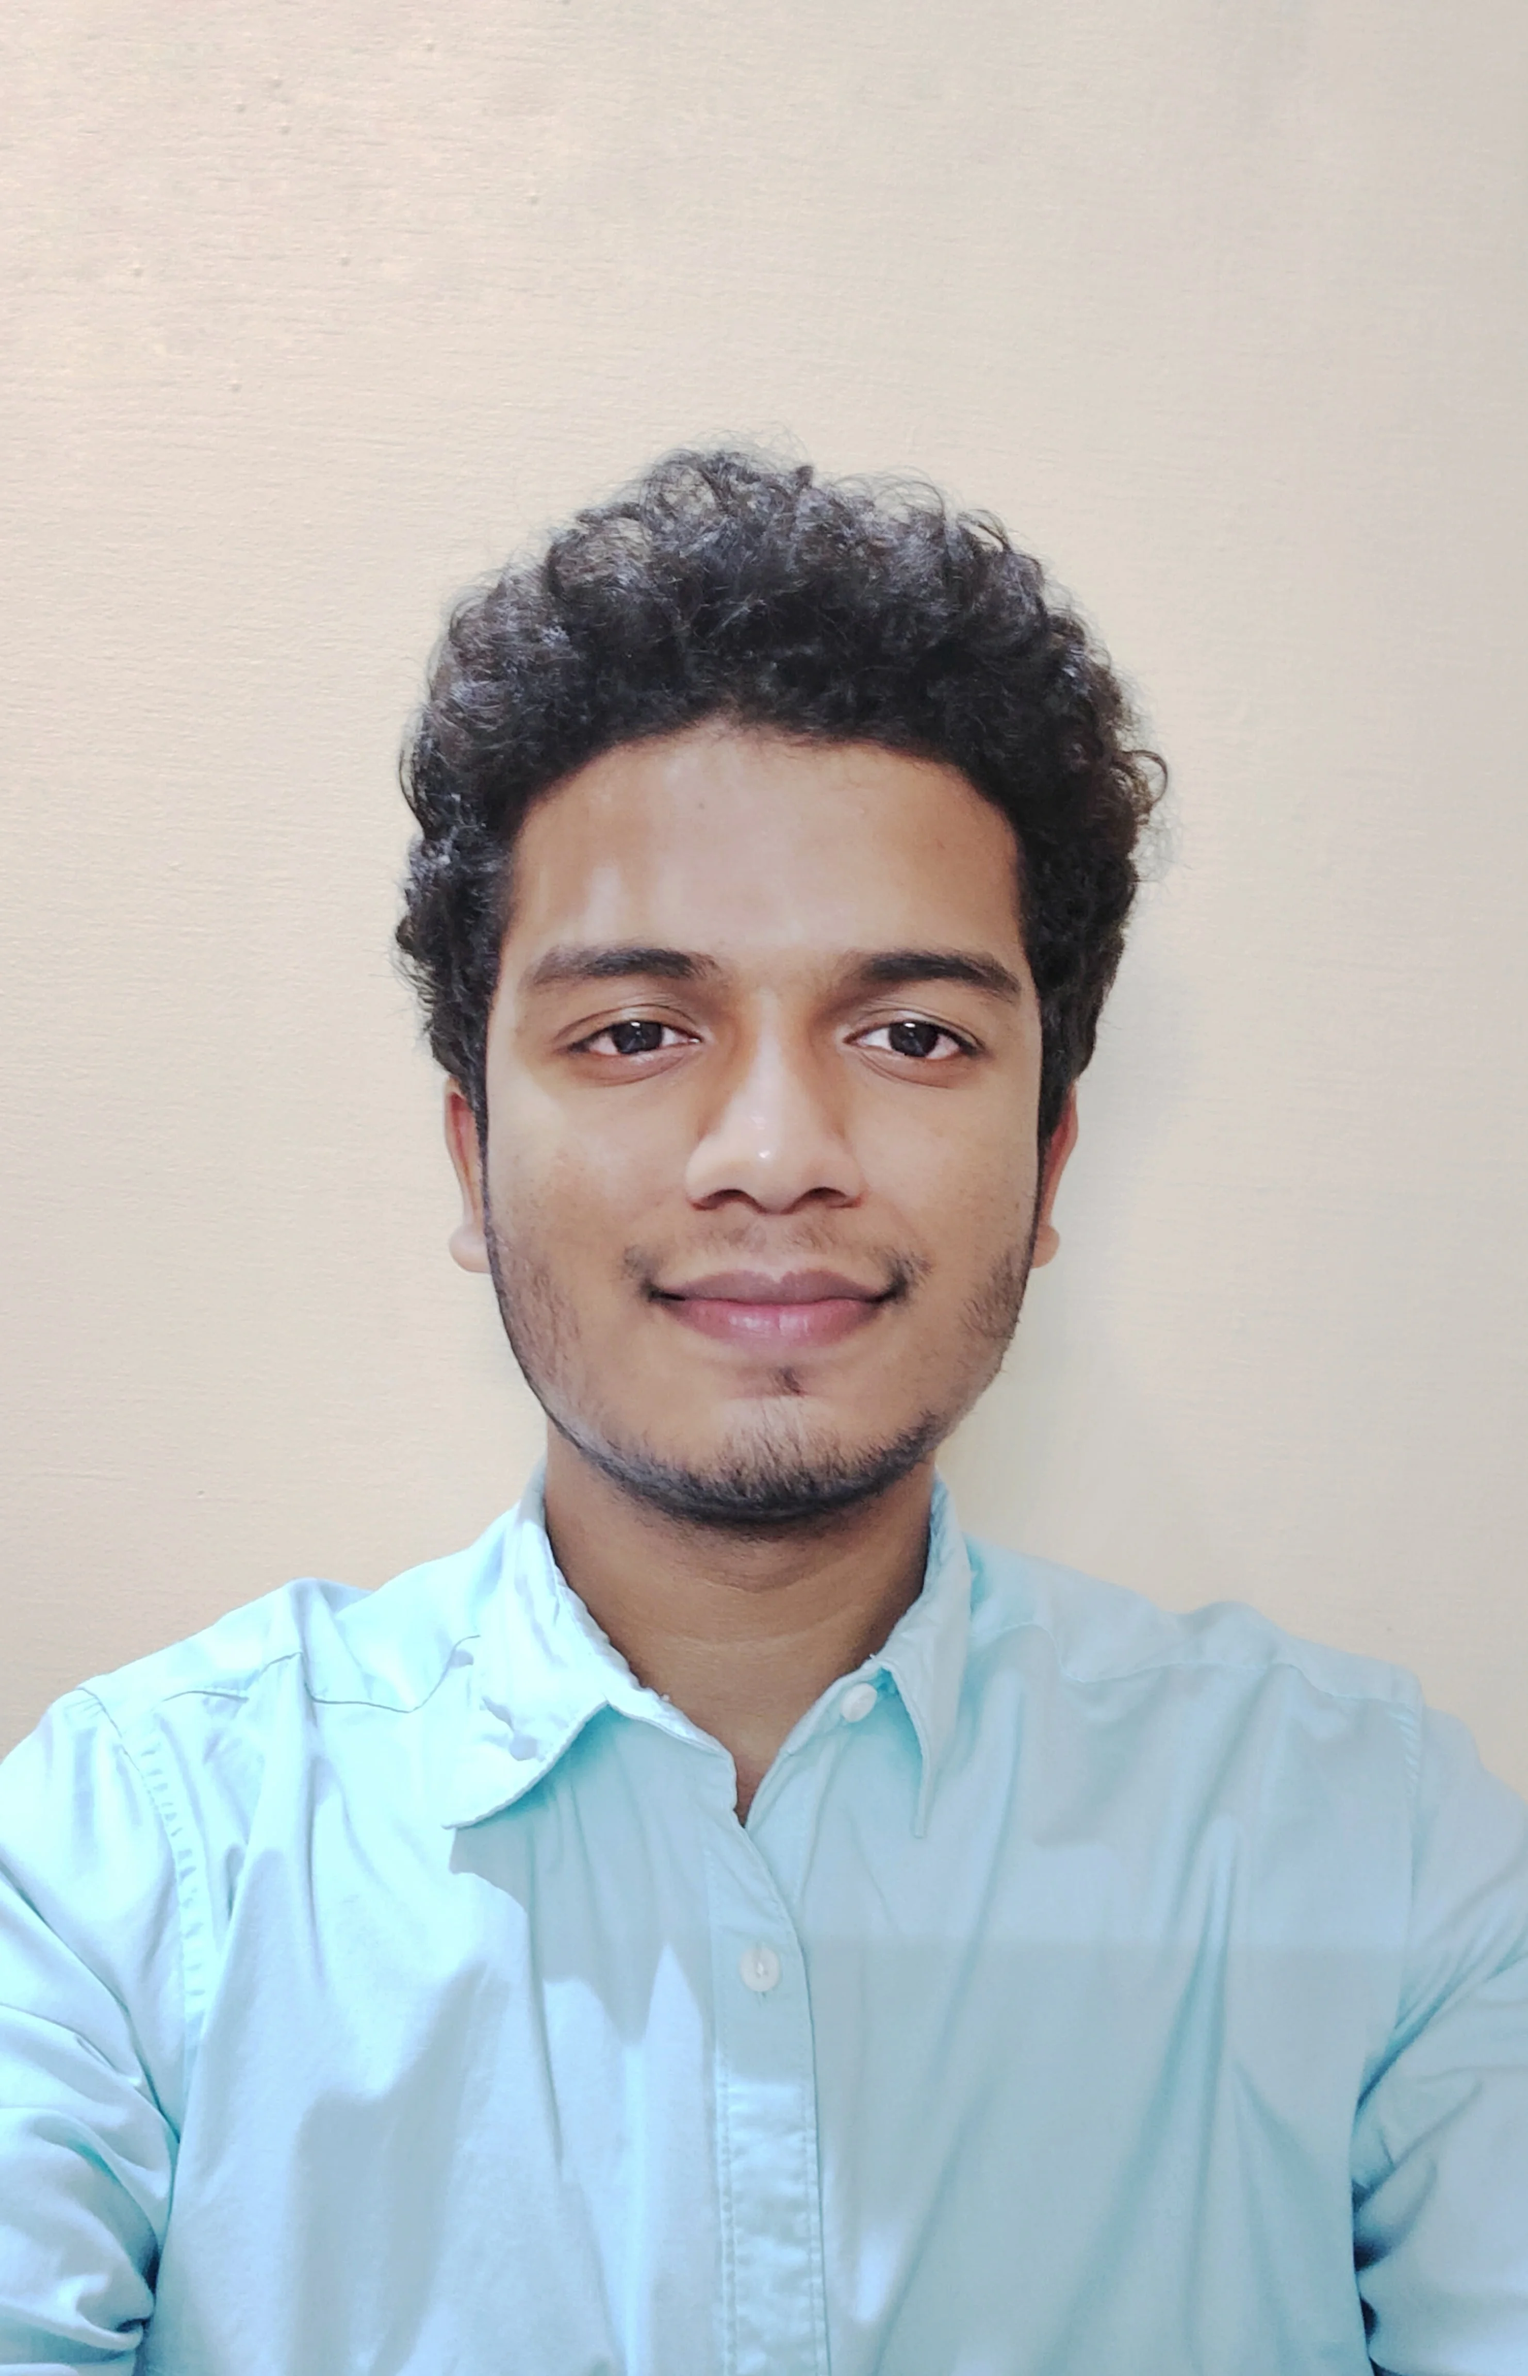
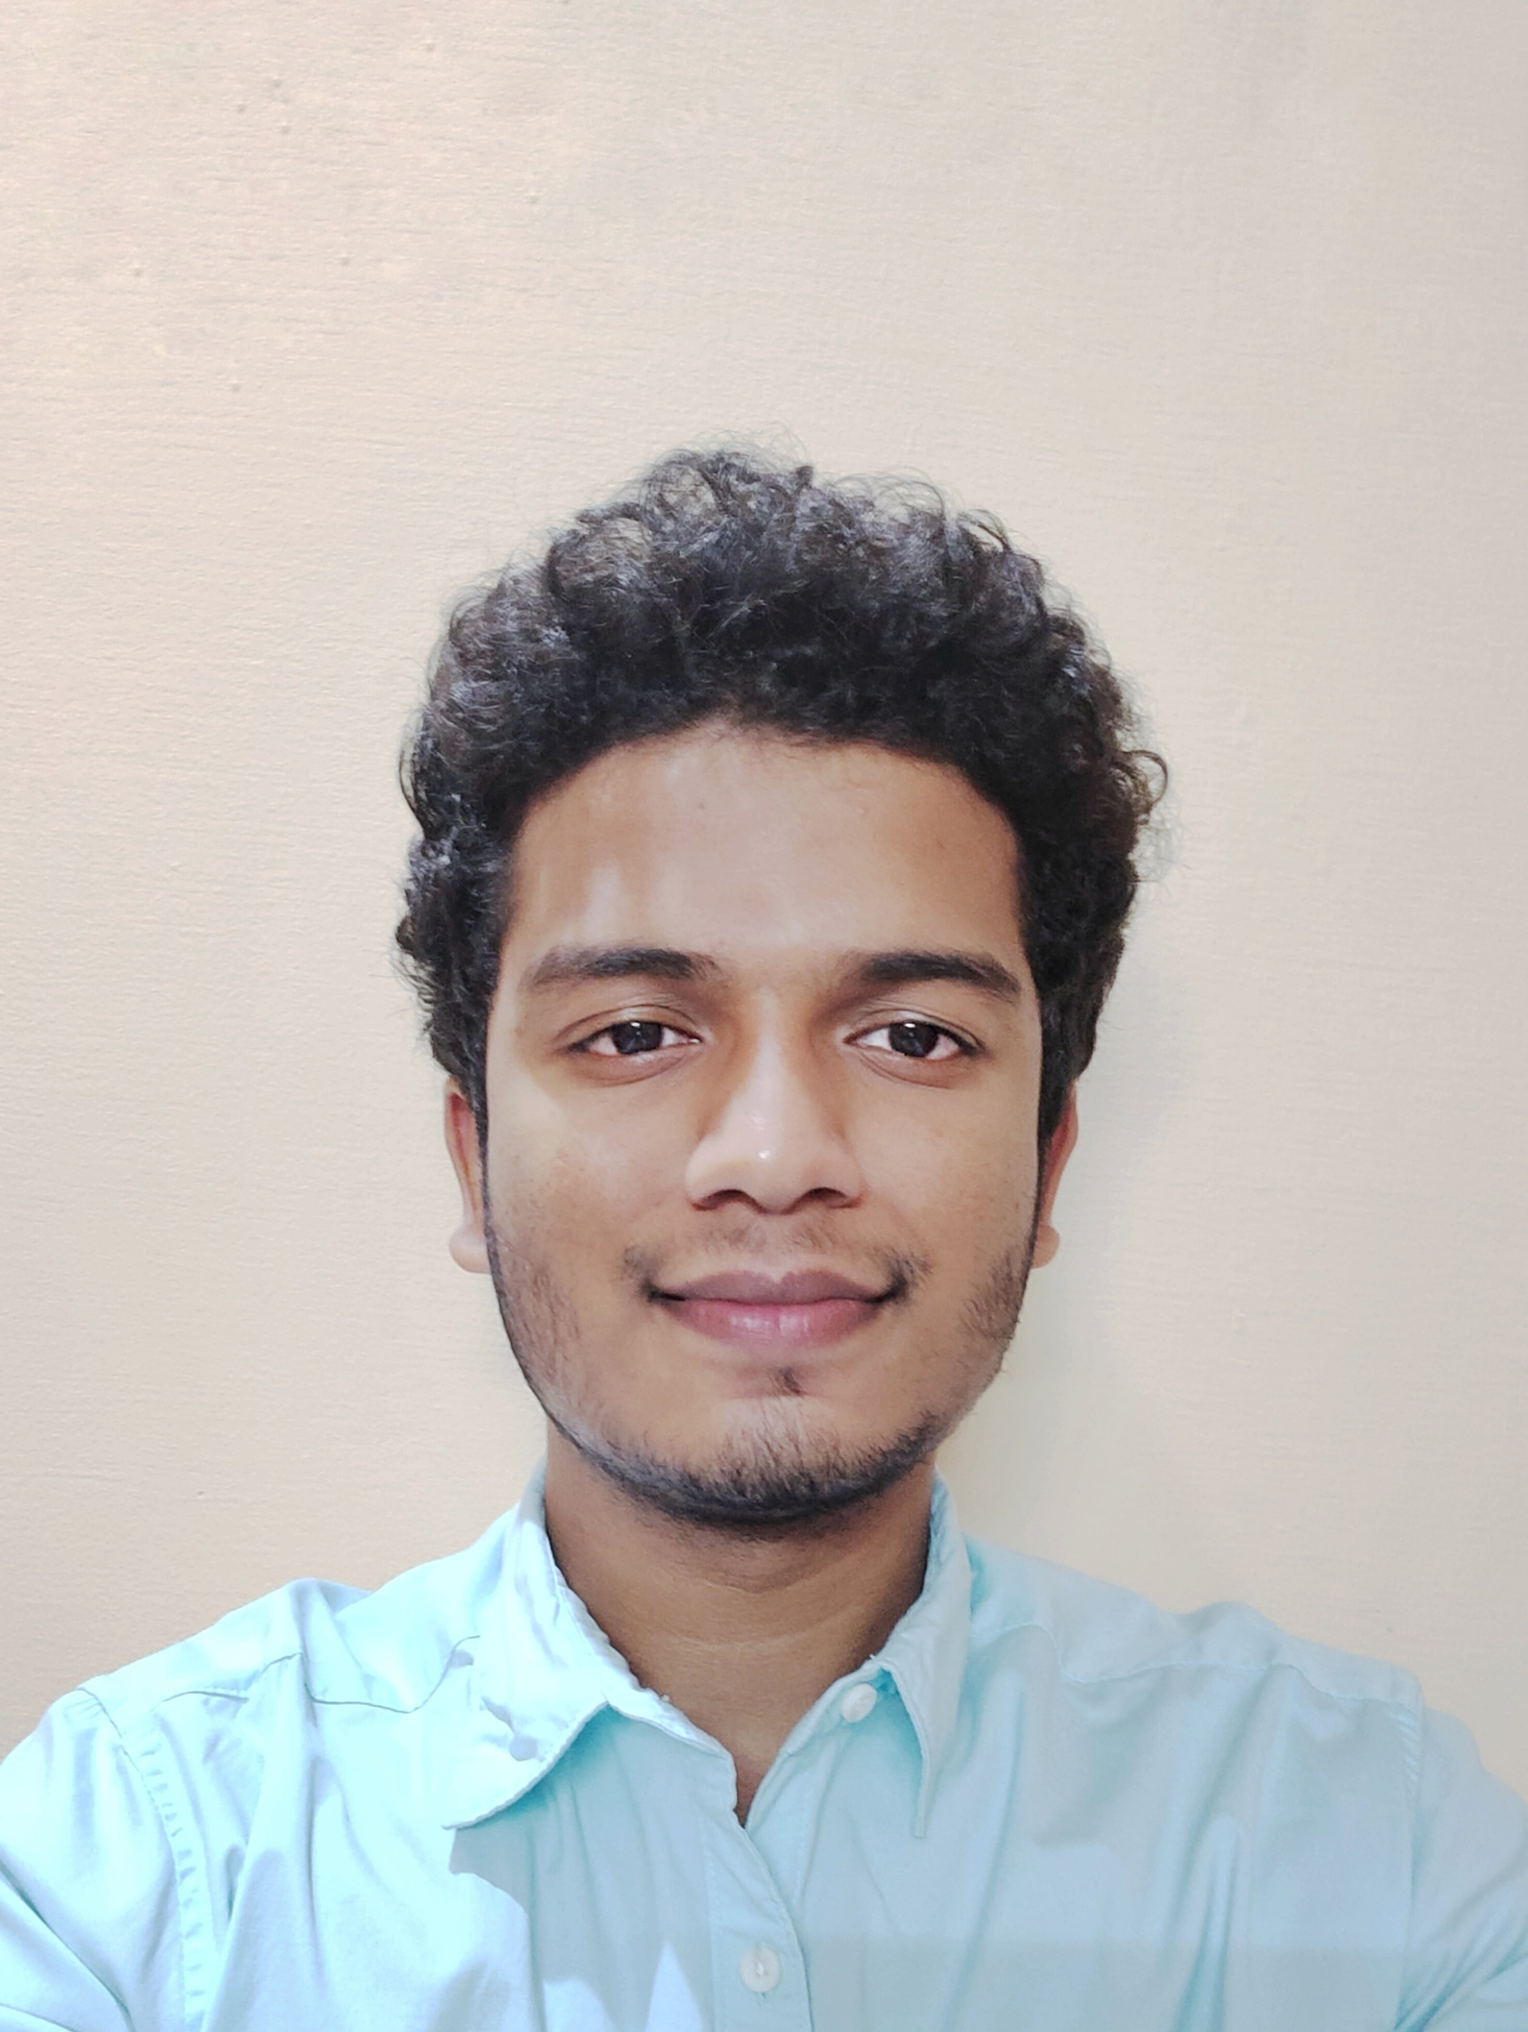
maintained aspect ratio

diff --git a/sass/team.scss b/sass/team.scss
@@ -33,7 +33,7 @@ h3 {
 
 .card_img img {
   width: 100%;
-  height: auto;
+  height: 450px;
   border-radius: 20px;
 }
 
@@ -61,7 +61,7 @@ h3 {
   }
 
   .card {
-    padding: 12px;
+    padding: 10px;
   }
 
   .card_title {
